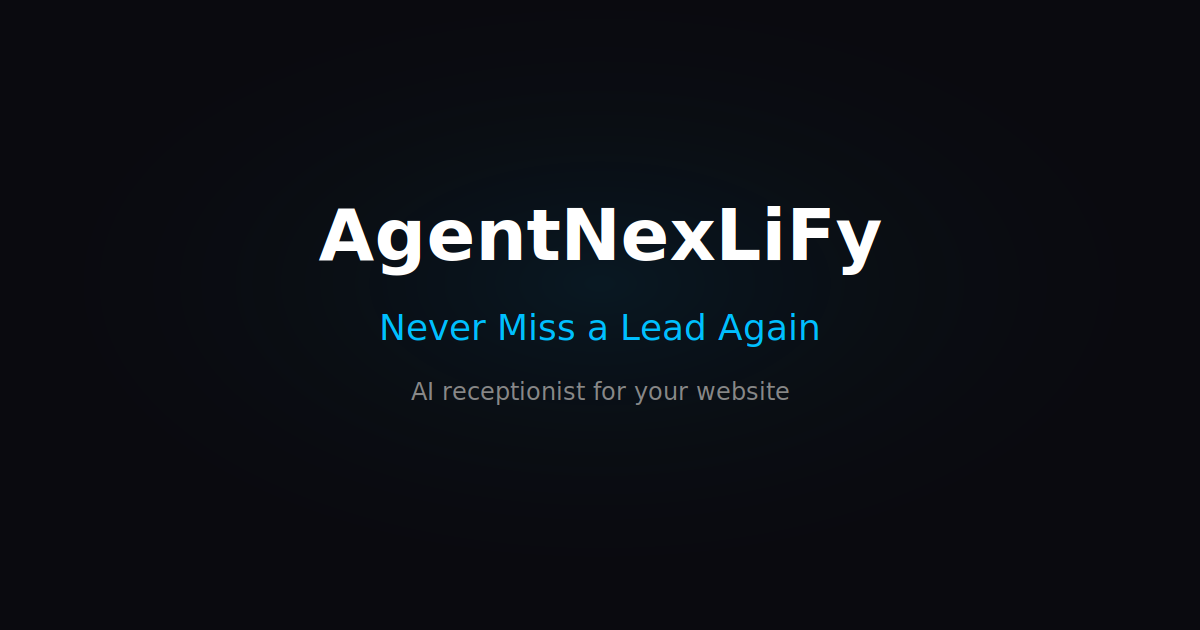
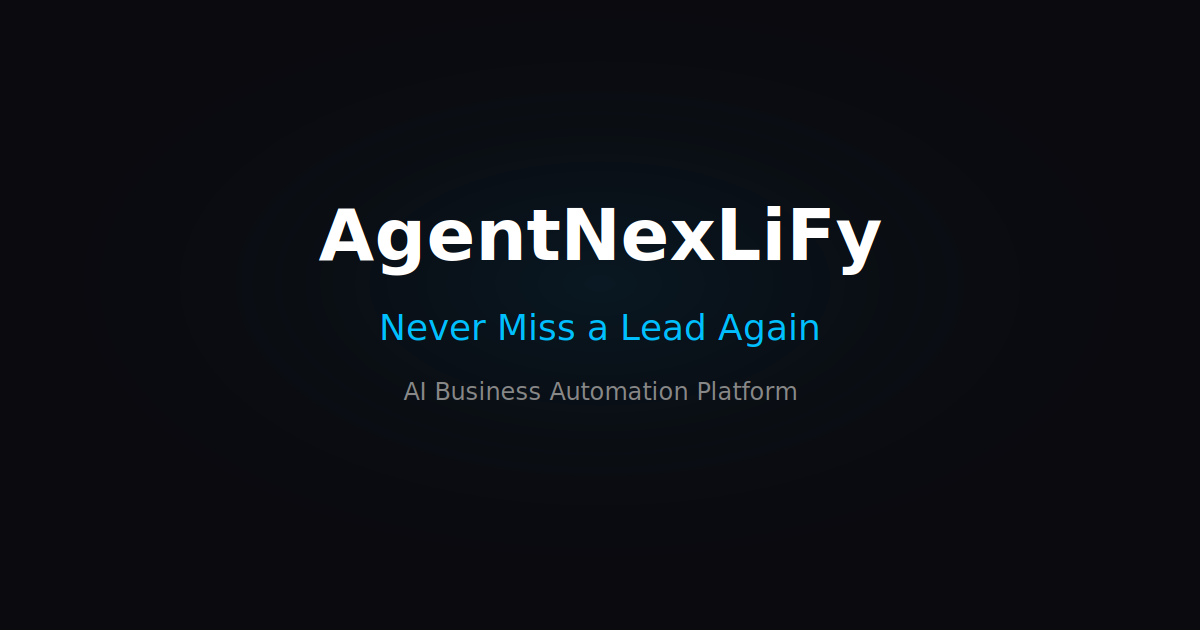
Reposition from "AI receptionist" to "AI business automation platform"
Update all frontend copy to reflect broader platform positioning:
- Meta tags (index.html + Home.jsx Helmet): new title, descriptions
- OG image: regenerated SVG/PNG with "AI Business Automation Platform"
- Hero: automation-focused subheadline
- Features: AI Lead Capture, Smart Pipeline, Automated Follow-Ups,
  AI Assistant, Appointment Automation, AI Lead Scoring
- How It Works: Connect → AI Takes Over → You Close Deals
- Final CTA, footer, structured data, SalonChatbot page
- Zero "receptionist" references remain in frontend

Changed region(s): [[0.3392, 0.6032, 0.6783, 0.6333]]

diff --git a/frontend/src/pages/Home.jsx b/frontend/src/pages/Home.jsx
@@ -1,6 +1,7 @@
 import React, { useState, useEffect, useCallback, useRef } from "react";
 import { Helmet } from "react-helmet-async";
 import { Link } from "react-router-dom";
+import { trackEvent } from "../utils/analytics";
 import "../styles/home.css";
 
 const CALENDLY_URL = "https://calendly.com/aidanfernandes31/15-minute-agent-nexliffy-demo";
@@ -28,6 +29,7 @@ function StripeCta({ href, children }) {
       return;
     }
     e.preventDefault();
+    trackEvent("begin_checkout", { event_label: "home_pricing" });
     const url = `${href}?prefilled_email=${encodeURIComponent(email)}`;
     window.open(url, "_blank", "noopener,noreferrer");
   };
@@ -147,25 +149,25 @@ export default function Home() {
       <Helmet>
         <meta charSet="UTF-8" />
         <meta name="viewport" content="width=device-width, initial-scale=1.0" />
-        <title>Agent NexLiFy | AI Receptionist for Local Businesses</title>
+        <title>Agent NexLiFy | AI Business Automation Platform</title>
         <meta
           name="description"
-          content="Agent NexLiFy is an AI receptionist that answers calls, captures leads, and books appointments for local businesses — 24/7. Set up in under 5 minutes."
+          content="Automate your business operations with AI. Capture leads, follow up automatically, book appointments, score leads, and manage your pipeline — all on autopilot."
         />
         <link rel="canonical" href="https://agentnexlify.com/" />
-        <meta property="og:title" content="Agent NexLiFy | AI Receptionist for Local Businesses" />
+        <meta property="og:title" content="Agent NexLiFy | AI Business Automation Platform" />
         <meta
           property="og:description"
-          content="Agent NexLiFy is an AI receptionist that answers calls, captures leads, and books appointments for local businesses — 24/7. Set up in under 5 minutes."
+          content="Automate your business operations with AI. Capture leads, follow up automatically, book appointments, score leads, and manage your pipeline — all on autopilot."
         />
         <meta property="og:image" content="https://agentnexlify.com/og-image.png" />
         <meta property="og:url" content="https://agentnexlify.com/" />
         <meta property="og:type" content="website" />
         <meta name="twitter:card" content="summary_large_image" />
-        <meta name="twitter:title" content="Agent NexLiFy | AI Receptionist for Local Businesses" />
+        <meta name="twitter:title" content="Agent NexLiFy | AI Business Automation Platform" />
         <meta
           name="twitter:description"
-          content="Agent NexLiFy is an AI receptionist that answers calls, captures leads, and books appointments for local businesses — 24/7. Set up in under 5 minutes."
+          content="Automate your business operations with AI. Capture leads, follow up automatically, book appointments, score leads, and manage your pipeline — all on autopilot."
         />
         <meta name="twitter:image" content="https://agentnexlify.com/og-image.png" />
         <meta name="google-site-verification" content="87NEEvBU6dL3QuI_1iZK9wgq4Jtws60z1M3bKu-mS6s" />
@@ -182,7 +184,7 @@ export default function Home() {
   "name": "AgentNexLiFy",
   "url": "https://agentnexlify.com",
   "logo": "https://agentnexlify.com/logo.png",
-  "description": "AI-powered customer service platform for local businesses",
+  "description": "AI-powered business automation platform for local businesses",
   "address": {
     "@type": "PostalAddress",
     "addressLocality": "Clemson",
@@ -203,7 +205,7 @@ export default function Home() {
   "name": "AgentNexLiFy",
   "applicationCategory": "BusinessApplication",
   "operatingSystem": "Web",
-  "description": "AI-powered customer service chatbot for local businesses",
+  "description": "AI-powered business automation platform for local businesses",
   "url": "https://agentnexlify.com",
   "offers": [
     { "@type": "Offer", "name": "Free", "price": "0", "priceCurrency": "USD" },
@@ -289,8 +291,8 @@ export default function Home() {
                 <span className="accent-gradient">Lead</span> Again
               </h1>
               <p className="lp-hero-sub reveal">
-                An AI receptionist for your website that answers questions, captures contact info,
-                and books appointments — even at 2 AM. Set up in 5 minutes, no coding needed.
+                Automate your leads, follow-ups, appointments, and daily operations — powered by AI.
+                Set up in minutes, no coding needed.
               </p>
               <div className="lp-hero-buttons reveal">
                 <Link to="/signup" className="btn-primary">
@@ -371,29 +373,28 @@ export default function Home() {
         <div className="container">
           <div className="lp-how-header">
             <div className="section-label reveal">How It Works</div>
-            <h2 className="section-title reveal">Live on your website in 5 minutes.</h2>
+            <h2 className="section-title reveal">Up and running in minutes.</h2>
           </div>
           <div className="lp-how-steps">
             <div className="lp-how-step reveal">
               <div className="lp-how-step-num">1</div>
-              <h3>Paste One Line of Code</h3>
+              <h3>Connect Your Business</h3>
               <p>
-                Add a single script tag to your site. Works with WordPress, Squarespace, Wix, or any website.
+                Set up your profile, services, and preferences in minutes. Works with the tools you already use.
               </p>
             </div>
             <div className="lp-how-step reveal">
               <div className="lp-how-step-num">2</div>
-              <h3>AI Answers, Captures, Books</h3>
+              <h3>AI Takes Over</h3>
               <p>
-                Your AI receptionist greets every visitor, answers FAQs, collects contact info, and books appointments — automatically.
+                Your AI agent handles leads, follow-ups, bookings, and customer questions automatically.
               </p>
             </div>
             <div className="lp-how-step reveal">
               <div className="lp-how-step-num">3</div>
               <h3>You Close Deals</h3>
               <p>
-                Qualified leads are delivered straight to your dashboard with full conversation
-                history, contact info, and AI-generated scores.
+                Focus on the work that matters while AI handles the rest. Qualified leads land in your dashboard with scores and full history.
               </p>
             </div>
           </div>
@@ -405,9 +406,9 @@ export default function Home() {
         <div className="container">
           <div className="lp-features-header">
             <div className="section-label reveal">Features</div>
-            <h2 className="section-title reveal">Everything your front desk does — without the front desk.</h2>
+            <h2 className="section-title reveal">Six AI agents working for your business.</h2>
             <p className="section-subtitle reveal">
-              Six tools that work 24/7 so you can focus on the work that matters.
+              Automate every step from visitor to customer.
             </p>
           </div>
           <div className="lp-features-grid">
@@ -415,43 +416,43 @@ export default function Home() {
               <div className="lp-feature-icon" aria-hidden="true">
                 <svg width="24" height="24" viewBox="0 0 24 24" fill="none" stroke="currentColor" strokeWidth="1.5" strokeLinecap="round" strokeLinejoin="round"><path d="M21 15a2 2 0 0 1-2 2H7l-4 4V5a2 2 0 0 1 2-2h14a2 2 0 0 1 2 2z"/></svg>
               </div>
-              <h3>AI Chat Widget</h3>
-              <p>Greets every website visitor instantly. Answers their questions, captures their info, and hands you a qualified lead.</p>
+              <h3>AI Lead Capture</h3>
+              <p>Your AI agent engages every website visitor, answers their questions, and captures their info automatically.</p>
             </div>
             <div className="lp-feature-card reveal">
               <div className="lp-feature-icon" aria-hidden="true">
                 <svg width="24" height="24" viewBox="0 0 24 24" fill="none" stroke="currentColor" strokeWidth="1.5" strokeLinecap="round" strokeLinejoin="round"><path d="M17 21v-2a4 4 0 0 0-4-4H5a4 4 0 0 0-4 4v2"/><circle cx="9" cy="7" r="4"/><path d="M23 21v-2a4 4 0 0 0-3-3.87"/><path d="M16 3.13a4 4 0 0 1 0 7.75"/></svg>
               </div>
-              <h3>Lead Capture</h3>
-              <p>Collects name, email, and phone from every visitor — then pings you instantly so you can follow up while they&apos;re still interested.</p>
+              <h3>Smart Pipeline</h3>
+              <p>Leads flow into your pipeline, scored and staged automatically. Get pinged instantly so you follow up while they&apos;re still interested.</p>
             </div>
             <div className="lp-feature-card reveal">
               <div className="lp-feature-icon" aria-hidden="true">
                 <svg width="24" height="24" viewBox="0 0 24 24" fill="none" stroke="currentColor" strokeWidth="1.5" strokeLinecap="round" strokeLinejoin="round"><polyline points="17 1 21 5 17 9"/><path d="M3 11V9a4 4 0 0 1 4-4h14"/><polyline points="7 23 3 19 7 15"/><path d="M21 13v2a4 4 0 0 1-4 4H3"/></svg>
               </div>
-              <h3>Smart Follow-Up</h3>
-              <p>Sends personalized email and SMS sequences automatically. Turns &ldquo;maybe later&rdquo; into booked appointments.</p>
+              <h3>Automated Follow-Ups</h3>
+              <p>AI-powered email and SMS sequences that nurture every lead. Turns &ldquo;maybe later&rdquo; into booked appointments.</p>
             </div>
             <div className="lp-feature-card reveal">
               <div className="lp-feature-icon" aria-hidden="true">
                 <svg width="24" height="24" viewBox="0 0 24 24" fill="none" stroke="currentColor" strokeWidth="1.5" strokeLinecap="round" strokeLinejoin="round"><circle cx="12" cy="12" r="10"/><path d="M9.09 9a3 3 0 0 1 5.83 1c0 2-3 3-3 3"/><line x1="12" y1="17" x2="12.01" y2="17"/></svg>
               </div>
-              <h3>FAQ Bot</h3>
-              <p>Trained on your business. Answers the same 20 questions you get every day — so you don&apos;t have to.</p>
+              <h3>AI Assistant</h3>
+              <p>Handles customer questions across chat and SMS so you don&apos;t have to. Trained on your business, available 24/7.</p>
             </div>
             <div className="lp-feature-card reveal">
               <div className="lp-feature-icon" aria-hidden="true">
                 <svg width="24" height="24" viewBox="0 0 24 24" fill="none" stroke="currentColor" strokeWidth="1.5" strokeLinecap="round" strokeLinejoin="round"><rect x="3" y="4" width="18" height="18" rx="2" ry="2"/><line x1="16" y1="2" x2="16" y2="6"/><line x1="8" y1="2" x2="8" y2="6"/><line x1="3" y1="10" x2="21" y2="10"/></svg>
               </div>
-              <h3>Appointment Booking</h3>
-              <p>Books appointments, sends reminders, and handles reschedules. Syncs with Google Calendar so nothing falls through the cracks.</p>
+              <h3>Appointment Automation</h3>
+              <p>Books, reminds, and reschedules without the back-and-forth. Syncs with Google Calendar so nothing falls through the cracks.</p>
             </div>
             <div className="lp-feature-card reveal">
               <div className="lp-feature-icon" aria-hidden="true">
                 <svg width="24" height="24" viewBox="0 0 24 24" fill="none" stroke="currentColor" strokeWidth="1.5" strokeLinecap="round" strokeLinejoin="round"><line x1="18" y1="20" x2="18" y2="10"/><line x1="12" y1="20" x2="12" y2="4"/><line x1="6" y1="20" x2="6" y2="14"/></svg>
               </div>
-              <h3>Lead Scoring</h3>
-              <p>Ranks every lead by buying intent. Alerts you the moment someone is ready to close — so you call them first.</p>
+              <h3>AI Lead Scoring</h3>
+              <p>Ranks every lead by buying intent so you focus on the hottest ones. Alerts you the moment someone is ready to close.</p>
             </div>
           </div>
         </div>
@@ -633,7 +634,7 @@ export default function Home() {
         <div className="container lp-cta-content">
           <h2 className="section-title reveal">Your competitors are already using AI. Are you?</h2>
           <p className="section-subtitle reveal">
-            Start capturing leads today with our free AI receptionist. No credit card required.
+            Start automating your business today. No credit card required.
           </p>
           <div className="lp-cta-buttons reveal">
             <Link to="/signup" className="btn-primary">
@@ -653,7 +654,7 @@ export default function Home() {
           <div className="lp-footer-inner">
             <div className="lp-footer-brand">
               <img src="/logo.png" alt="Agent NexLiFy Logo" className="lp-footer-brand-logo" />
-              <p>AI-powered lead capture and automation for local businesses.</p>
+              <p>AI-powered business automation for local businesses.</p>
             </div>
             <div className="lp-footer-col">
               <h4>Product</h4>

diff --git a/frontend/index.html b/frontend/index.html
@@ -3,19 +3,19 @@
   <head>
     <meta charset="UTF-8" />
     <meta name="viewport" content="width=device-width, initial-scale=1.0" />
-    <title>AgentNexLiFy | AI Receptionist for Local Businesses</title>
-    <meta name="description" content="An AI receptionist for your website that answers questions, captures leads, and books appointments. Set up in 5 minutes, no coding needed." />
+    <title>AgentNexLiFy | AI Business Automation Platform</title>
+    <meta name="description" content="Automate your business operations with AI. Capture leads, follow up automatically, book appointments, score leads, and manage your pipeline — all on autopilot." />
     <!-- Open Graph -->
-    <meta property="og:title" content="AgentNexLiFy | AI Receptionist for Local Businesses" />
-    <meta property="og:description" content="An AI receptionist for your website that answers questions, captures leads, and books appointments. Set up in 5 minutes, no coding needed." />
+    <meta property="og:title" content="AgentNexLiFy | AI Business Automation Platform" />
+    <meta property="og:description" content="Automate your business operations with AI. Capture leads, follow up automatically, book appointments, score leads, and manage your pipeline — all on autopilot." />
     <meta property="og:image" content="https://app.agentnexlify.com/og-image.png" />
     <meta property="og:url" content="https://www.agentnexlify.com" />
     <meta property="og:type" content="website" />
     <meta property="og:site_name" content="AgentNexLiFy" />
     <!-- Twitter Card -->
     <meta name="twitter:card" content="summary_large_image" />
-    <meta name="twitter:title" content="AgentNexLiFy | AI Receptionist for Local Businesses" />
-    <meta name="twitter:description" content="An AI receptionist for your website that answers questions, captures leads, and books appointments. Set up in 5 minutes, no coding needed." />
+    <meta name="twitter:title" content="AgentNexLiFy | AI Business Automation Platform" />
+    <meta name="twitter:description" content="Automate your business operations with AI. Capture leads, follow up automatically, book appointments, score leads, and manage your pipeline — all on autopilot." />
     <meta name="twitter:image" content="https://app.agentnexlify.com/og-image.png" />
     <link rel="preconnect" href="https://fonts.googleapis.com" />
     <link rel="preconnect" href="https://fonts.gstatic.com" crossorigin />

diff --git a/frontend/public/og-image.html b/frontend/public/og-image.html
@@ -1,0 +1,89 @@
+<!DOCTYPE html>
+<html>
+<head>
+<meta charset="UTF-8" />
+<style>
+  * { margin: 0; padding: 0; box-sizing: border-box; }
+  body {
+    width: 1200px;
+    height: 630px;
+    background: #0a0a0f;
+    font-family: 'Inter', -apple-system, BlinkMacSystemFont, sans-serif;
+    display: flex;
+    align-items: center;
+    justify-content: center;
+    overflow: hidden;
+  }
+  .container {
+    text-align: center;
+    padding: 0 80px;
+  }
+  .logo-row {
+    display: flex;
+    align-items: center;
+    justify-content: center;
+    gap: 16px;
+    margin-bottom: 48px;
+  }
+  .logo-icon {
+    width: 56px;
+    height: 56px;
+    background: linear-gradient(135deg, #00bfff, #6366f1);
+    border-radius: 14px;
+    display: flex;
+    align-items: center;
+    justify-content: center;
+  }
+  .logo-icon svg { width: 32px; height: 32px; }
+  .logo-text {
+    font-size: 42px;
+    font-weight: 800;
+    color: #ffffff;
+    letter-spacing: -0.5px;
+  }
+  .headline {
+    font-size: 64px;
+    font-weight: 800;
+    color: #00bfff;
+    line-height: 1.15;
+    margin-bottom: 24px;
+    letter-spacing: -1px;
+  }
+  .subtext {
+    font-size: 28px;
+    font-weight: 500;
+    color: #8a8f98;
+    line-height: 1.4;
+  }
+  .glow {
+    position: absolute;
+    width: 500px;
+    height: 500px;
+    border-radius: 50%;
+    background: radial-gradient(circle, rgba(0,191,255,0.08) 0%, transparent 70%);
+    top: 50%;
+    left: 50%;
+    transform: translate(-50%, -50%);
+    pointer-events: none;
+  }
+</style>
+<link rel="preconnect" href="https://fonts.googleapis.com" />
+<link rel="preconnect" href="https://fonts.gstatic.com" crossorigin />
+<link href="https://fonts.googleapis.com/css2?family=Inter:wght@500;800&display=swap" rel="stylesheet" />
+</head>
+<body>
+  <div class="glow"></div>
+  <div class="container">
+    <div class="logo-row">
+      <div class="logo-icon">
+        <svg viewBox="0 0 24 24" fill="white">
+          <path d="M20 2H4c-1.1 0-2 .9-2 2v18l4-4h14c1.1 0 2-.9 2-2V4c0-1.1-.9-2-2-2z"/>
+        </svg>
+      </div>
+      <span class="logo-text">AgentNexLiFy</span>
+    </div>
+    <div class="headline">Never Miss a Lead Again</div>
+    <div class="subtext">AI Business Automation Platform</div>
+  </div>
+</body>
+</html>

diff --git a/frontend/src/pages/SalonChatbot.jsx b/frontend/src/pages/SalonChatbot.jsx
@@ -3,12 +3,12 @@ import VerticalPage from "../components/VerticalPage";
 const meta = {
   title: "Salon Booking Chatbot | AI Appointment Scheduling for Hair Salons",
   description:
-    "AI receptionist for salons. Clients self-book 24/7, no-shows drop 30%, and you save 2 hours a day on phone calls.",
+    "AI booking automation for salons. Clients self-book 24/7, no-shows drop 30%, and you save 2 hours a day on phone calls.",
   canonical: "https://agentnexlify.com/salon-booking-chatbot",
 };
 
 const hero = {
-  h1: "Your Salon\u2019s 24/7 AI Receptionist \u2014 Book Appointments While You Sleep",
+  h1: "Your Salon\u2019s 24/7 AI Booking Agent \u2014 Book Appointments While You Sleep",
   subhead:
     "Clients self-book any time. Reminders go out automatically.",
   painPoint: "Clients call during your busiest hours. Stop losing them.",
